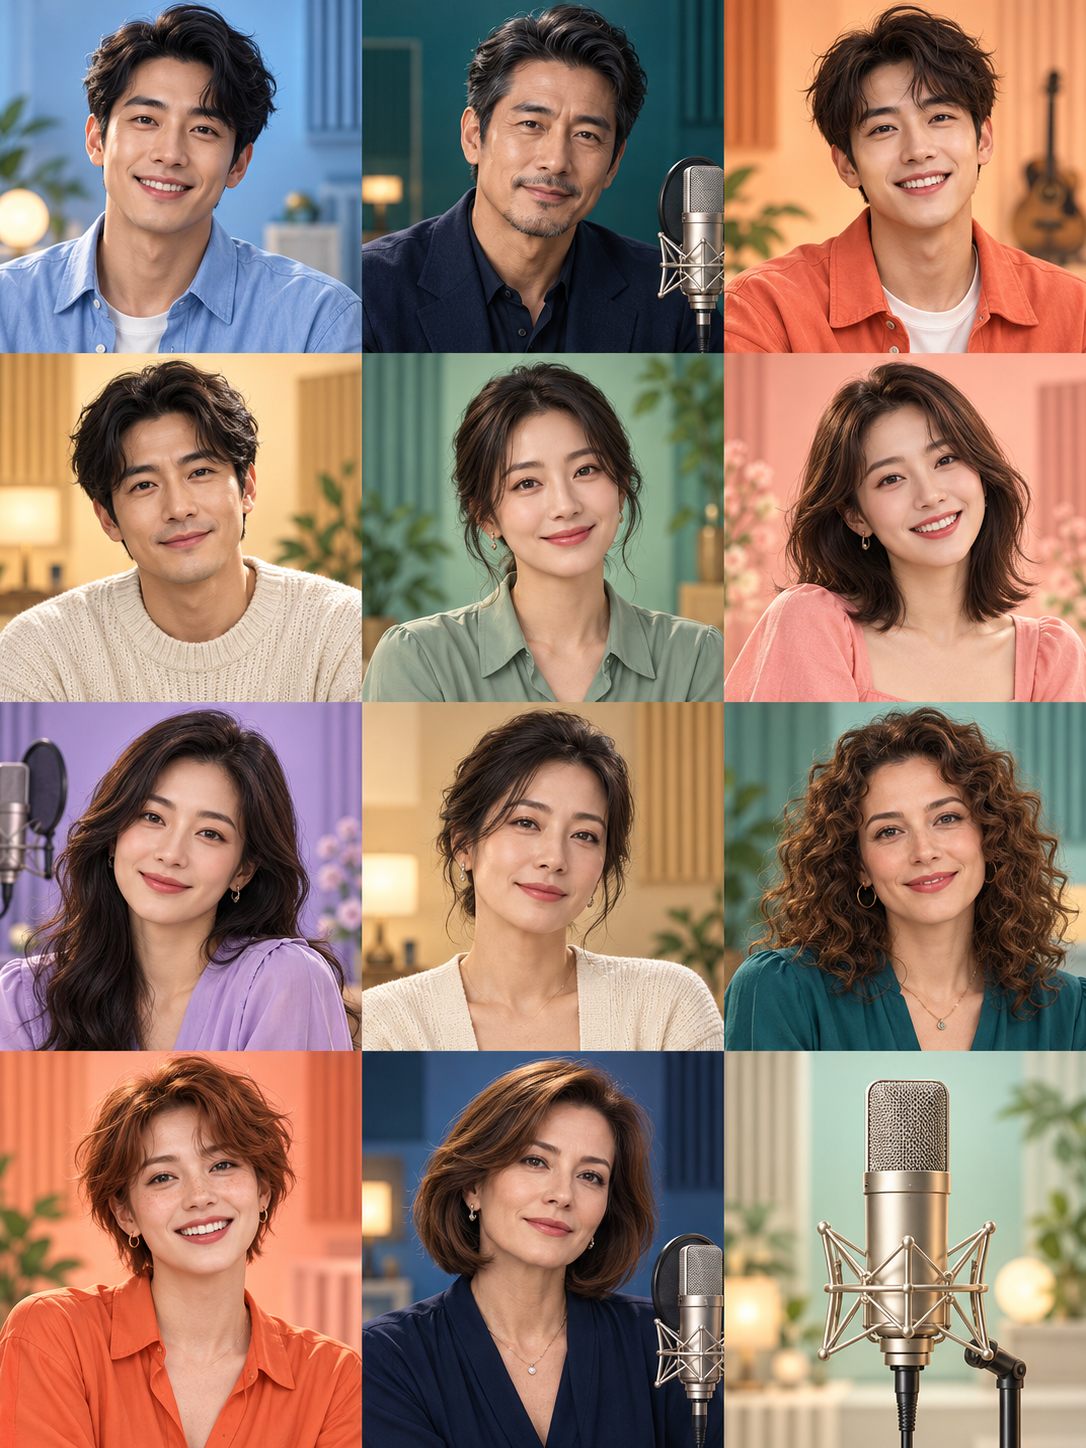
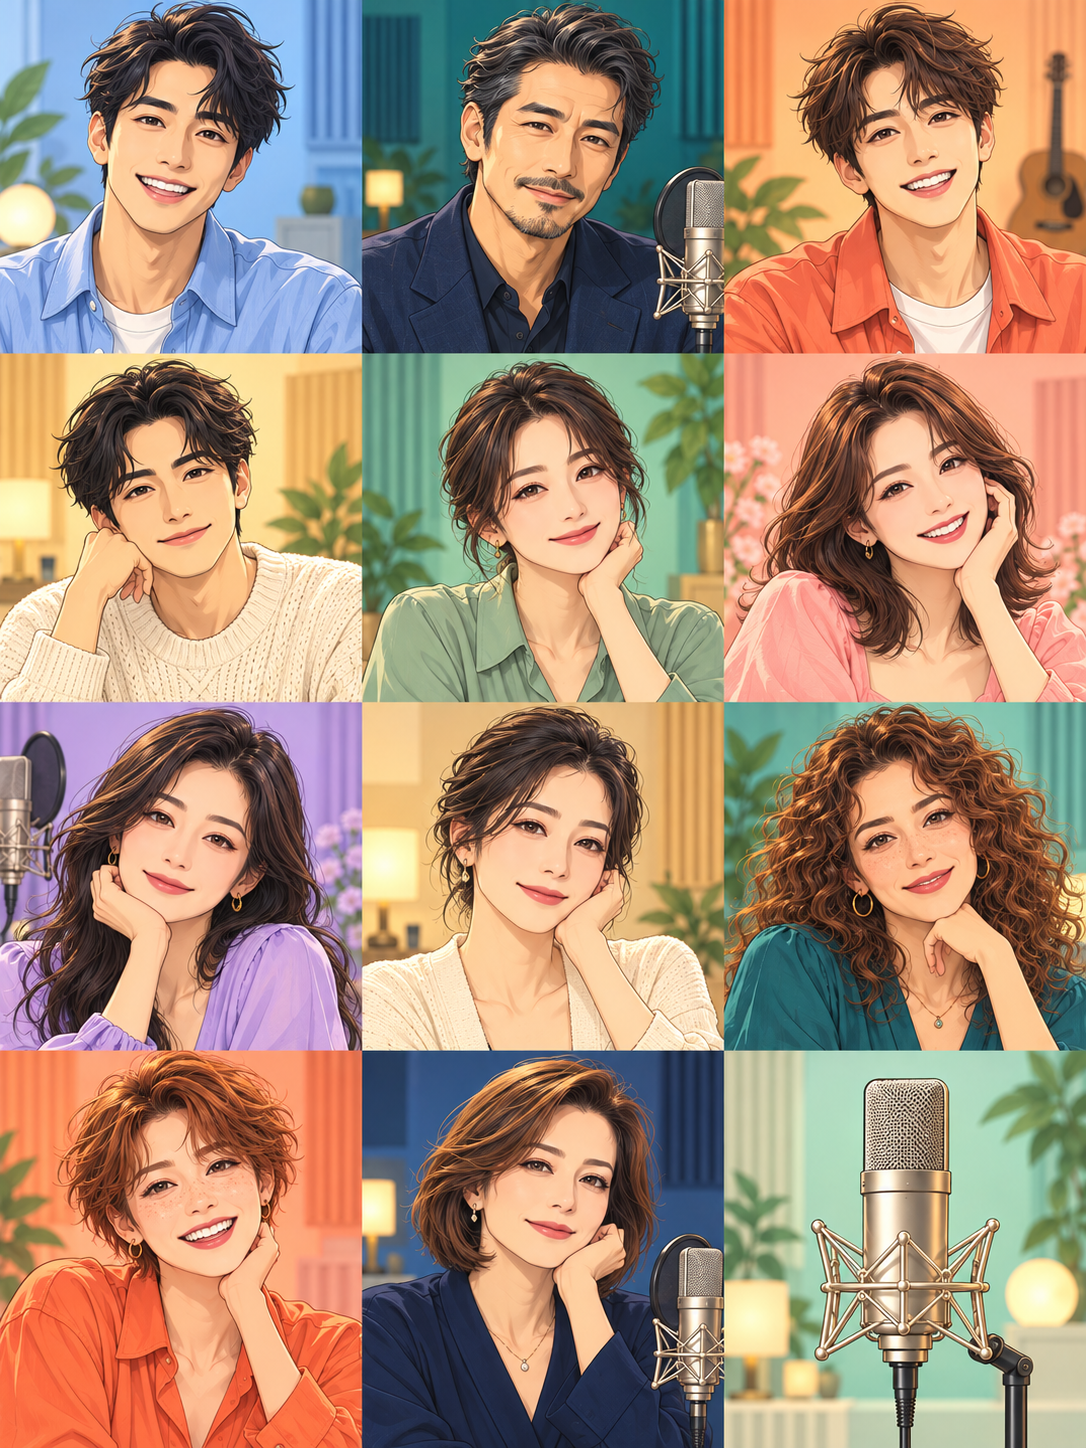
将配音声音封面更新为动漫插画风格 [skip ci]

diff --git a/src/assets/voices/README.md b/src/assets/voices/README.md
@@ -1,6 +1,6 @@
 # 声音风格头像
 
-`voice-portraits.png` 是为本项目通过图像生成工具制作的风格示意图集。人物均为虚构形象，不代表声线提供者的真实外貌。原始生成图为 1086 × 1448 像素，按 3 列、4 行排列；界面通过背景定位显示相应头像，所有播放与操作按钮仍使用 SVG 图标。
+`voice-portraits.png` 是为本项目通过图像生成工具制作的动漫插画风格示意图集。人物采用手绘线条与柔和色块，均为原创虚构形象，不代表声线提供者的真实外貌。原始生成图为 1086 × 1448 像素，按 3 列、4 行排列；界面通过背景定位显示相应头像，所有播放与操作按钮仍使用 SVG 图标。
 
 图像实际纵向分界约为 x=362、724，横向分界约为 y=353、702、1051，四行并非严格等高。界面使用 340 × 340 像素的正方形取景：各列起点为 x=11、373、735，各行起点为 y=7、358、707、1080。取景位于每格内部，避开接缝，不露出相邻人物，也不拉伸头像。更换图片后应重新核对分界与取景参数。
 
@@ -14,7 +14,7 @@
 | 3 | 中文男声，舒缓、平和 |
 | 4 | 中文女声，自然、亲切 |
 | 5 | 中文女声，清亮、明快 |
-| 6 | 中文女声，温暖、柔和 |
+| 6 | 中文女声，低沉、沉稳 |
 | 7 | 中文女声，舒缓、平和 |
 | 8 | 英文女声，自然、亲切 |
 | 9 | 英文女声，明亮、有活力 |
@@ -22,3 +22,5 @@
 | 11 | 通用声音，录音话筒 |
 
 图片不包含姓名或标签，类型文字由声音目录单独显示。
+
+本轮图像生成以既有图集作为构图参考，保留十二格角色顺序和声音类型配色，改为统一的二维动漫插画风格。人物均为成年人；背景为简化录音空间，图片内不嵌入操作图标或文字。
